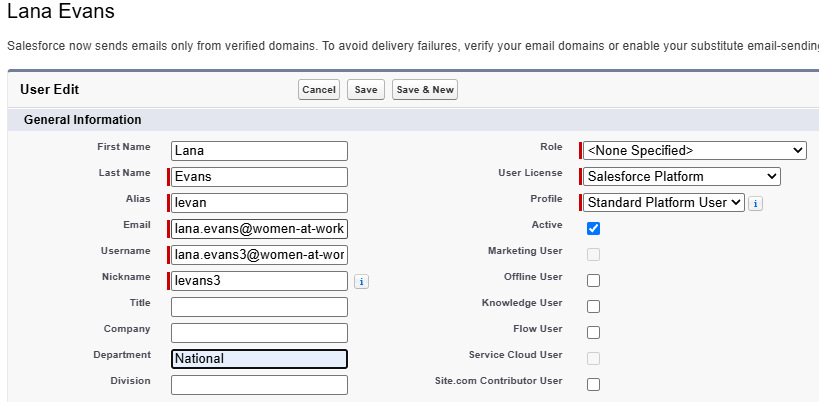
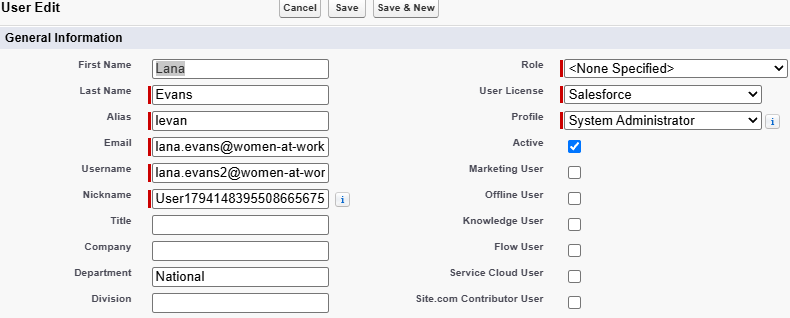
correcciones

diff --git a/README.md b/README.md
@@ -72,10 +72,10 @@ sf project deploy start --manifest manifest/package.xml --target-org coral-cloud
 
 
 * Creamos dos usuarios. 
-    1. Un usuario con el correo electrónico laura.smith@women-at-work.org. Este usuario pertenecerá al departamento de internacional y su licencia será Salesforce Platform y su perfil será Standar Platform User.
+    1. Un usuario con el correo electrónico laura.smith@women-at-work.org. Este usuario pertenecerá al departamento de internacional y su licencia será Salesforce Platform y su perfil será Standard Platform User.
     ![alt text](images/Laura.png)
 
-    2. Un usuario con el correo electrónico lana.evans@women-at-work.org. Este usuario pertenecerá al departamento de nacional y su licencia será Salesforce Platform y su perfil será Standar Platform User.
+    2. Un usuario con el correo electrónico lana.evans@women-at-work.org. Este usuario pertenecerá al departamento de nacional y su licencia será Salesforce y su perfil será System Administrator.
     ![alt text](images/Lana.png)    
 
 
